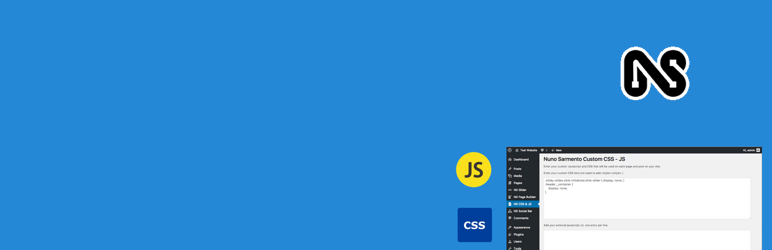
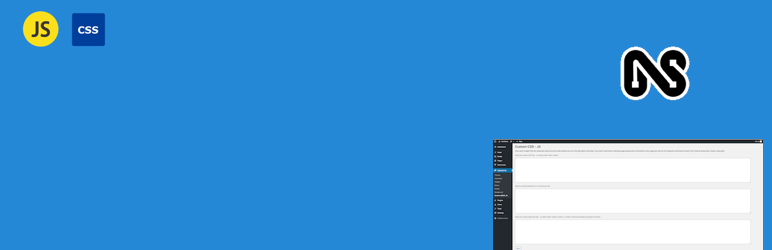
first commit

Changed region(s): [[0.5907, 0.532, 0.9948, 1.0], [0.0311, 0.028, 0.1554, 0.196]]

diff --git a/admin/nuno-sarmento-custom-css-js-services.php b/admin/nuno-sarmento-custom-css-js-services.php
@@ -1,15 +1,23 @@
 <?php defined('ABSPATH') or die();
 
+
+
 class NUNO_SARMENTO_CCJ_Custom_Css_Js {
+
 
   private $rn = "\r\n";
   private $break = "[biw_br]";
 
+
     function __construct() {
 
         // admin functions
+        add_action('add_meta_boxes', array($this, 'nuno_sarmento_ccj_add_meta_boxes'));
+        add_action('save_post', array($this, 'save_meta_box_data'));
         add_action('admin_menu', array($this, 'nuno_sarmento_ccj_admin_menu'));
+
         add_action('admin_enqueue_scripts', array($this, 'nuno_sarmento_ccj_enqueue_scripts'));
+
         // front-end functions
         add_action('wp_print_footer_scripts', array($this, 'nuno_sarmento_ccj_add_css'), PHP_INT_MAX);
         add_action('wp_print_footer_scripts', array($this, 'nuno_sarmento_ccj_add_js'), PHP_INT_MAX);
@@ -23,16 +31,14 @@ class NUNO_SARMENTO_CCJ_Custom_Css_Js {
 
     public function nuno_sarmento_ccj_admin_menu() {
       // Add a page to manage this plugin's settings
-      add_menu_page(
-        'NS  CSS & JS',
-        'NS  CSS & JS',
+      add_submenu_page(
+        'themes.php',
+        'Custom CSS & JS',
+        'Custom CSS & JS',
         'manage_options',
         'tend-custom-css-js',
-        array($this, 'nuno_sarmento_ccj_dashboard'),
-        'dashicons-media-code', // icon_url
-  			22 // position
+        array($this, 'nuno_sarmento_ccj_dashboard')
       );
-
     }
 
     function nuno_sarmento_ccj_dashboard() {
@@ -40,37 +46,8 @@ class NUNO_SARMENTO_CCJ_Custom_Css_Js {
         $this->save_meta_box_data();
         echo '<div class="updated notice">' . __('Settings saved.', 'tend-custom-css-js') . '</div>';
       }
-
-      $ns_dashboard_css ='
-
-      <style media="screen">
-      .header__ns_nsss:after { content: " "; display: block; height: 29px; width: 15%; position: absolute;
-      	top: 3%; right: 25px; background-image: url(//ps.w.org/nuno-sarmento-social-icons/assets/icon-128x128.png?rev=1588574); background-size:128px 128px; height: 128px; width: 128px;
-      }
-      .header__ns_nsss{ background: white; height: 150px; width: 100%; float: left;}
-      .header__ns_nsss h2 {padding: 35px;font-size: 27px;}
-      @media only screen and (max-width: 480px) {
-      	.header__ns_nsss:after { content: " "; display: block; height: 29px; width: 15%; position: absolute;
-      		top: 6%; right: 25px; background-image: url(//ps.w.org/nuno-sarmento-social-icons/assets/icon-128x128.png?rev=1588574); background-size:50px 50px; height: 50px; width: 50px;
-      	}
-        .header__ns_nsss h2 {padding: 30px;font-size: 30px;line-height: 34px;}
-      }
-      .sub_header__ns_nsss { float: left; width: 100%; margin-bottom: 20px; position: relative; }
-      </style>
-
-      <div class="wrap">
-    		<div class="header__ns_nsss">
-    			<h2>Nuno Sarmento Custom CSS - JS</h2>
-    		</div>
-        <div class="sub_header__ns_nsss">
-           <br></br>
-          <p><strong>Enter your custom Javascript and CSS that will be used on each page and post of your site.</strong></p>
-        </div>
-      </div>
-
-      ';
-
-      echo $ns_dashboard_css;
+      echo "<h1>" . __('Custom CSS - JS', 'tend-custom-css-js') . "</h1>";
+      echo "<h4><strong>" . __('If you want to apply CSS and Javascript code across the whole website you are in the right place, otherwise, if you want to add code in individual pages please look at the bottom of your page your post for the respective meta boxes (Custom CSS, External Javascripts, Custom Javascript).', 'tend-custom-css-js') . "</strong></h4>";
       echo '<form method="POST">';
       $this->meta_box_css();
       $this->meta_box_js_external();
@@ -80,18 +57,38 @@ class NUNO_SARMENTO_CCJ_Custom_Css_Js {
     }
 
 
-    public function custom_scripts_1_callback() {
-  		printf(
-  			'<textarea class="large-text" rows="5" name="nuno_sarmento_custom_css_js_option_name[custom_scripts_1]" id="custom_scripts_1">%s</textarea>',
-  			isset( $this->nuno_sarmento_custom_css_js_options['custom_scripts_1'] ) ? esc_attr( $this->nuno_sarmento_custom_css_js_options['custom_scripts_1']) : ''
-  		);
-  	}
 
+    function nuno_sarmento_ccj_add_meta_boxes() {
+      $screens = array( 'post', 'page' );
+      foreach ( $screens as $screen ) {
+        add_meta_box(
+          'tend_ccj_custom_css',
+          __( 'Custom CSS', 'tend-custom-css-js' ),
+          array($this, 'meta_box_css'),
+          $screen
+        );
+        add_meta_box(
+          'tend_ccj_custom_js_external',
+          __( 'External Javascripts', 'tend-custom-css-js' ),
+          array($this, 'meta_box_js_external'),
+          $screen
+        );
+        add_meta_box(
+          'tend_ccj_custom_js',
+          __( 'Custom Javascript', 'tend-custom-css-js' ),
+          array($this, 'meta_box_js'),
+          $screen
+        );
+      }
+    }
 
     function add_meta_box($type, $post, $text) {
-
-      $value = get_option('_tend_ccj_custom_'.$type, '');
-
+      wp_nonce_field( 'tend_ccj_meta_box_'.$type, 'tend_ccj_meta_box_nonce_'.$type);
+      if ($post) {
+        $value = get_post_meta( $post->ID, '_tend_ccj_custom_'.$type, true );
+      } else {
+        $value = get_option('_tend_ccj_custom_'.$type, '');
+      }
       if ($text) {
         echo "<p>{$text}</p>";
       }
@@ -99,31 +96,51 @@ class NUNO_SARMENTO_CCJ_Custom_Css_Js {
     }
 
     function meta_box_css($post = null) {
-      $this->add_meta_box('css', $post, __('Enter your custom CSS here (no need to add &lt;style&gt;&lt;/style&gt; )', 'tend-custom-css-js'));
+      $this->add_meta_box('css', $post, __('Enter your custom CSS here - no need to add &lt;style&gt;&lt;/style&gt; .', 'tend-custom-css-js'));
     }
 
     function meta_box_js($post = null) {
-      $this->add_meta_box('js', $post, __('Enter your custom javascript here (no need to add &lt;script&gt;&lt;/script&gt;)', 'tend-custom-css-js'));
+      $this->add_meta_box('js', $post, __('Enter your custom javascript here - no need to add &lt;script&gt;&lt;/script&gt;.', 'tend-custom-css-js'));
     }
 
     function meta_box_js_external($post = null) {
       $this->add_meta_box('js_external', $post, __('Add your external javascript url, one entry per line.', 'tend-custom-css-js'));
     }
 
-
     function save_meta_box_data($post_id = 0) {
+
+      if ( defined( 'DOING_AUTOSAVE' ) && DOING_AUTOSAVE ) {
+        return;
+      }
+
+      // Check the user's permissions.
+      if ( isset( $_POST['post_type'] ) && 'page' == $_POST['post_type'] ) {
+        if ( ! current_user_can( 'edit_page', $post_id ) ) {
+          return;
+        }
+      } else {
+        if ( ! current_user_can( 'edit_post', $post_id ) && !is_admin()) {
+          return;
+        }
+      }
 
       $exts = array('css','js', 'js_external');
 
       foreach ($exts as $ext) {
-
-        if (isset($_POST['tend_ccj_custom_'.$ext])) {
-          $value = $_POST['tend_ccj_custom_'.$ext];
-          //$value = str_replace($this->rn, $this->break, $value);
-          //$value = sanitize_text_field( $value );
-          $value = str_replace($this->break, $this->rn, $value);
-          update_option('_tend_ccj_custom_'.$ext, $value, false);
-
+        if (isset( $_POST['tend_ccj_meta_box_nonce_'.$ext])) {
+          if (wp_verify_nonce($_POST['tend_ccj_meta_box_nonce_'.$ext], 'tend_ccj_meta_box_'.$ext)) {
+            if (isset($_POST['tend_ccj_custom_'.$ext])) {
+              $value = $_POST['tend_ccj_custom_'.$ext];
+              //$value = str_replace($this->rn, $this->break, $value);
+              //$value = sanitize_text_field( $value );
+              $value = str_replace($this->break, $this->rn, $value);
+              if ($post_id) {
+                update_post_meta( $post_id, '_tend_ccj_custom_'.$ext, $value );
+              } else {
+                update_option('_tend_ccj_custom_'.$ext, $value, false);
+              }
+            }
+          }
         }
       }
 
@@ -144,17 +161,34 @@ class NUNO_SARMENTO_CCJ_Custom_Css_Js {
 
     function nuno_sarmento_ccj_add_js() {
       $exts = array('js_external', 'js');
+      global $post;
+      // global first
       foreach ($exts as $ext) {
         if ($value = get_option('_tend_ccj_custom_'.$ext, '')) {
           $this->nuno_sarmento_ccj_insert_script($value);
         }
       }
+      // then page/post
+      if (isset($post)) {
+        foreach ($exts as $ext) {
+          if ($value = get_post_meta( $post->ID, '_tend_ccj_custom_'.$ext, true )) {
+            $this->nuno_sarmento_ccj_insert_script($value);
+          }
+        }
+      }
     }
 
     function nuno_sarmento_ccj_add_css() {
-
+      global $post;
+      // global first
       if ($value = get_option('_tend_ccj_custom_css', '' )) {
         echo "<style>" . $value . "</style>";
+      }
+      // then page/post
+      if (isset($post)) {
+        if ($value = get_post_meta( $post->ID, '_tend_ccj_custom_css', true )) {
+          echo "<style>" . $value . "</style>";
+        }
       }
     }
 

diff --git a/nuno-sarmento-custom-css-js.php b/nuno-sarmento-custom-css-js.php
@@ -1,10 +1,10 @@
 <?php
 /*
 Plugin Name: Nuno Sarmento Custom CSS - JS
-Plugin URI: http://www.nuno-sarmento.com
+Plugin URI: https://en-gb.wordpress.org/plugins/nuno-sarmento-custom-css-js/
 Description: Nuno Sarmento Custom CSS - JS Simple plugin allows you to add custom CSS and Javascript to pages and posts.
-Version: 1.0.0
-Author: Nuno Sarmento
+Version: 1.0.3
+Author: Nuno Morais Sarmento
 Author URI: http://www.nuno-sarmento.com
 Text Domain: tend-custom-css-js
 Domain Path: /languages
@@ -34,7 +34,7 @@ defined('ABSPATH') or die('°_°’');
 /* Set plugin version constant. */
 
 if( ! defined( 'NUNO_SARMENTO_CUSTOM_CSS_JS_VERSION' ) ) {
-	define( 'NUNO_SARMENTO_CUSTOM_CSS_JS_VERSION', '1.0.0' );
+	define( 'NUNO_SARMENTO_CUSTOM_CSS_JS_VERSION', '1.0.1' );
 }
 
 /* Set plugin name. */
